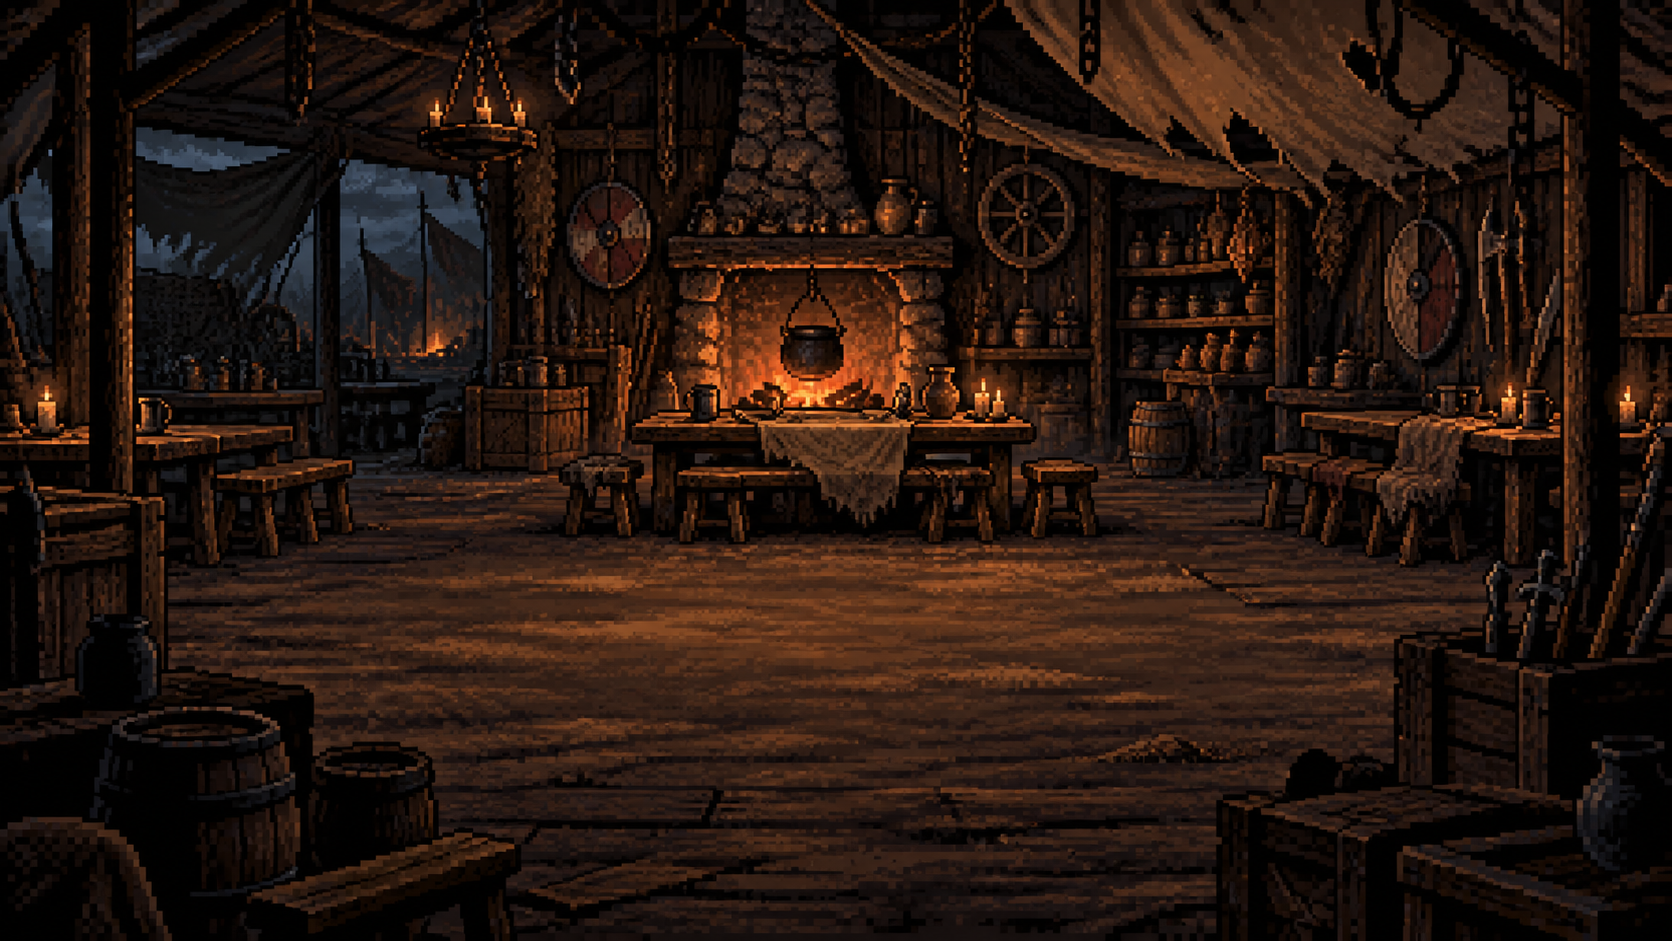
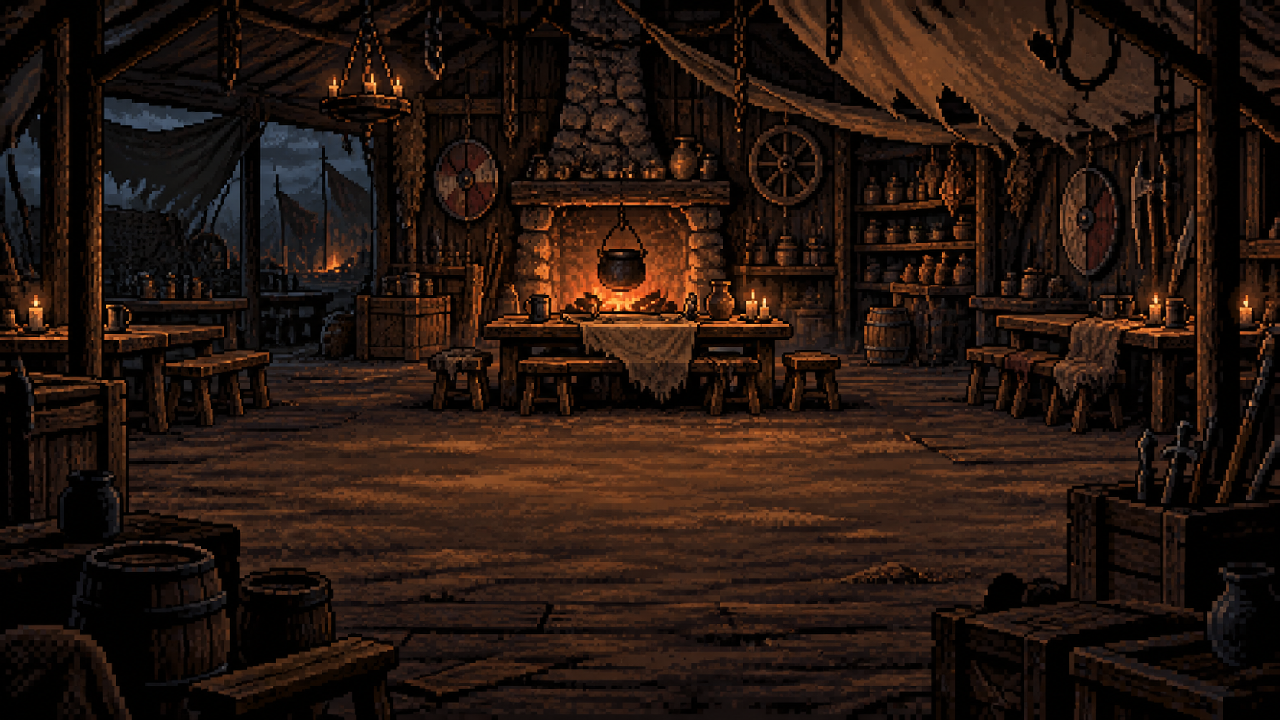
fix: harden sprite delivery

Changed region(s): [[0.375, 0.3972, 0.625, 0.4583], [0.2812, 0.0917, 0.3125, 0.1222], [0.0, 0.4583, 0.0312, 0.4889]]

diff --git a/scripts/extract-sprite-atlases.swift b/scripts/extract-sprite-atlases.swift
@@ -78,6 +78,39 @@ func writePng(_ image: CGImage, to url: URL) throws {
   }
 }
 
+func writeResizedPng(_ image: CGImage, width: Int, height: Int, to url: URL) throws {
+  let pixels = UnsafeMutablePointer<UInt8>.allocate(capacity: width * height * 4)
+  defer { pixels.deallocate() }
+  pixels.initialize(repeating: 0, count: width * height * 4)
+
+  guard let context = CGContext(
+    data: pixels,
+    width: width,
+    height: height,
+    bitsPerComponent: 8,
+    bytesPerRow: width * 4,
+    space: CGColorSpaceCreateDeviceRGB(),
+    bitmapInfo: CGImageAlphaInfo.premultipliedLast.rawValue
+  ) else {
+    throw NSError(domain: "SpriteAtlas", code: 5, userInfo: [NSLocalizedDescriptionKey: "Unable to resize image for \(url.path)"])
+  }
+
+  context.interpolationQuality = .none
+  context.draw(image, in: CGRect(x: 0, y: 0, width: width, height: height))
+  guard let resized = context.makeImage() else {
+    throw NSError(domain: "SpriteAtlas", code: 6, userInfo: [NSLocalizedDescriptionKey: "Unable to encode resized image for \(url.path)"])
+  }
+  try writePng(resized, to: url)
+}
+
+func fittedSize(for image: CGImage, maximumDimension: Int) -> (width: Int, height: Int) {
+  let scale = min(1, Double(maximumDimension) / Double(max(image.width, image.height)))
+  return (
+    width: max(1, Int((Double(image.width) * scale).rounded())),
+    height: max(1, Int((Double(image.height) * scale).rounded()))
+  )
+}
+
 func centeredSquare(around bounds: CGRect, cell: CGRect, side: CGFloat) -> CGRect {
   let centerX = bounds.midX
   let centerY = bounds.midY
@@ -90,7 +123,16 @@ func centeredSquare(around bounds: CGRect, cell: CGRect, side: CGFloat) -> CGRec
 
 let projectRoot = URL(fileURLWithPath: FileManager.default.currentDirectoryPath)
 let sourceRoot = projectRoot.appendingPathComponent("sprite-work/source")
-let outputRoot = projectRoot.appendingPathComponent("public/images/game")
+let publicImagesRoot = projectRoot.appendingPathComponent("public/images")
+let outputRoot = publicImagesRoot.appendingPathComponent(".game-staging-\(UUID().uuidString)")
+let finalOutputRoot = publicImagesRoot.appendingPathComponent("game")
+let backupRoot = publicImagesRoot.appendingPathComponent(".game-backup-\(UUID().uuidString)")
+let fileManager = FileManager.default
+
+defer {
+  try? fileManager.removeItem(at: outputRoot)
+  try? fileManager.removeItem(at: backupRoot)
+}
 
 func copySource(_ sourceName: String, to relativeDestination: String) throws {
   let source = sourceRoot.appendingPathComponent(sourceName)
@@ -106,7 +148,12 @@ try copySource("barbaro-supervivencia-46x70.png", to: "heroes/barbarian.png")
 try copySource("sorceress-supervivencia-46x70.png", to: "heroes/sorceress.png")
 try copySource("paladin-supervivencia-46x70.png", to: "heroes/paladin.png")
 try copySource("necromancer-supervivencia-46x70.png", to: "heroes/necromancer.png")
-try copySource("tavern-supervivencia-background.png", to: "tavern/background.png")
+
+let tavern = try Bitmap(url: sourceRoot.appendingPathComponent("tavern-supervivencia-background.png"))
+guard let tavernImage = tavern.context.makeImage() else {
+  throw NSError(domain: "SpriteAtlas", code: 7, userInfo: [NSLocalizedDescriptionKey: "Unable to render the Tavern background"])
+}
+try writeResizedPng(tavernImage, width: 1280, height: 720, to: outputRoot.appendingPathComponent("tavern/background.png"))
 
 let equipmentNames = ["weapon", "armor", "helmet", "gloves", "boots", "ring", "amulet", "charm"]
 let equipment = try Bitmap(url: sourceRoot.appendingPathComponent("equipment-supervivencia-source-sheet.png"))
@@ -122,11 +169,15 @@ for (index, name) in equipmentNames.enumerated() {
     width: equipmentCellWidth,
     height: equipmentCellHeight
   )
-  guard let bounds = equipment.alphaBounds(in: cell) else { continue }
+  guard let bounds = equipment.alphaBounds(in: cell) else {
+    throw NSError(domain: "SpriteAtlas", code: 8, userInfo: [NSLocalizedDescriptionKey: "No visible pixels found for item \(name)"])
+  }
   let side = min(416, floor(min(cell.width, cell.height)))
   let crop = centeredSquare(around: bounds, cell: cell, side: side)
-  guard let image = equipment.image(in: crop) else { continue }
-  try writePng(image, to: outputRoot.appendingPathComponent("items/\(name).png"))
+  guard let image = equipment.image(in: crop) else {
+    throw NSError(domain: "SpriteAtlas", code: 9, userInfo: [NSLocalizedDescriptionKey: "Unable to crop item \(name)"])
+  }
+  try writeResizedPng(image, width: 96, height: 96, to: outputRoot.appendingPathComponent("items/\(name).png"))
 }
 
 let buildingNames = ["wagons", "scout-table", "stash-wagon", "infirmary", "appraiser"]
@@ -144,7 +195,9 @@ let buildingRanges: [(start: CGFloat, end: CGFloat)] = [
 for (index, name) in buildingNames.enumerated() {
   let range = buildingRanges[index]
   let cell = CGRect(x: range.start, y: 0, width: range.end - range.start, height: CGFloat(buildings.height))
-  guard let bounds = buildings.alphaBounds(in: cell) else { continue }
+  guard let bounds = buildings.alphaBounds(in: cell) else {
+    throw NSError(domain: "SpriteAtlas", code: 10, userInfo: [NSLocalizedDescriptionKey: "No visible pixels found for building \(name)"])
+  }
   let padding: CGFloat = 8
   let crop = CGRect(
     x: max(cell.minX, bounds.minX - padding).rounded(.down),
@@ -152,8 +205,41 @@ for (index, name) in buildingNames.enumerated() {
     width: min(cell.maxX, bounds.maxX + padding) - max(cell.minX, bounds.minX - padding),
     height: min(CGFloat(buildings.height), bounds.maxY + padding) - max(0, bounds.minY - padding)
   ).integral
-  guard let image = buildings.image(in: crop) else { continue }
-  try writePng(image, to: outputRoot.appendingPathComponent("caravan/\(name).png"))
+  guard let image = buildings.image(in: crop) else {
+    throw NSError(domain: "SpriteAtlas", code: 11, userInfo: [NSLocalizedDescriptionKey: "Unable to crop building \(name)"])
+  }
+  let size = fittedSize(for: image, maximumDimension: 256)
+  try writeResizedPng(image, width: size.width, height: size.height, to: outputRoot.appendingPathComponent("caravan/\(name).png"))
+}
+
+let expectedFiles = [
+  "heroes/barbarian.png", "heroes/sorceress.png", "heroes/paladin.png", "heroes/necromancer.png",
+  "items/weapon.png", "items/armor.png", "items/helmet.png", "items/gloves.png",
+  "items/boots.png", "items/ring.png", "items/amulet.png", "items/charm.png",
+  "caravan/wagons.png", "caravan/scout-table.png", "caravan/stash-wagon.png",
+  "caravan/infirmary.png", "caravan/appraiser.png", "tavern/background.png"
+]
+
+for relativePath in expectedFiles {
+  let file = outputRoot.appendingPathComponent(relativePath)
+  let attributes = try fileManager.attributesOfItem(atPath: file.path)
+  guard let size = attributes[.size] as? NSNumber, size.intValue > 0 else {
+    throw NSError(domain: "SpriteAtlas", code: 12, userInfo: [NSLocalizedDescriptionKey: "Generated file is empty: \(relativePath)"])
+  }
+}
+
+if fileManager.fileExists(atPath: finalOutputRoot.path) {
+  try fileManager.moveItem(at: finalOutputRoot, to: backupRoot)
+}
+
+do {
+  try fileManager.moveItem(at: outputRoot, to: finalOutputRoot)
+  try? fileManager.removeItem(at: backupRoot)
+} catch {
+  if fileManager.fileExists(atPath: backupRoot.path) && !fileManager.fileExists(atPath: finalOutputRoot.path) {
+    try? fileManager.moveItem(at: backupRoot, to: finalOutputRoot)
+  }
+  throw error
 }
 
 print("Generated 4 heroes, 8 item icons, 5 caravan buildings, and 1 Tavern background in public/images/game")

diff --git a/pages/tavern.vue b/pages/tavern.vue
@@ -194,22 +194,21 @@ function arrivalLabel(timestamp?: string): string {
 .tavern-page {
   display: grid;
   gap: 1.25rem;
-  isolation: isolate;
   max-width: min(100%, 1680px);
-  position: relative;
 }
-.tavern-page::before {
+.tavern-heading {
+  align-items: end;
   background:
-    linear-gradient(180deg, rgba(17, 16, 14, 0.3), rgba(17, 16, 14, 0.82)),
-    url('/images/game/tavern/background.png') center top / cover no-repeat;
-  content: '';
-  inset: 0;
-  opacity: 0.36;
-  pointer-events: none;
-  position: absolute;
-  z-index: -1;
+    linear-gradient(90deg, rgba(17, 16, 14, 0.93) 0%, rgba(17, 16, 14, 0.72) 58%, rgba(17, 16, 14, 0.84) 100%),
+    url('/images/game/tavern/background.png') center 48% / cover no-repeat;
+  border: 1px solid var(--line);
+  border-radius: 12px;
+  display: flex;
+  gap: 1.5rem;
+  justify-content: space-between;
+  min-height: 15rem;
+  padding: 1.5rem;
 }
-.tavern-heading { align-items: end; display: flex; gap: 1.5rem; justify-content: space-between; }
 .tavern-heading h1 { font-size: 2rem; letter-spacing: -0.025em; margin: 0.15rem 0 0.35rem; text-wrap: balance; }
 .tavern-heading p { margin: 0; max-width: 66ch; text-wrap: pretty; }
 .round-mark { color: var(--accent-2); font-size: 0.82rem; font-weight: 750; }
@@ -243,7 +242,17 @@ function arrivalLabel(timestamp?: string): string {
 @media (max-width: 1100px) { .visitor-grid { grid-template-columns: 1fr; } }
 
 @media (max-width: 640px) {
-  .tavern-heading { align-items: stretch; flex-direction: column; }
+  .tavern-heading {
+    align-items: stretch;
+    background-image:
+      linear-gradient(180deg, rgba(17, 16, 14, 0.56) 0%, rgba(17, 16, 14, 0.94) 62%),
+      url('/images/game/tavern/background.png');
+    background-position: 58% center;
+    flex-direction: column;
+    justify-content: end;
+    min-height: 20rem;
+    padding: 1rem;
+  }
   .tavern-summary { justify-content: stretch; }
   .tavern-summary > span { flex: 1 1 auto; }
   .tavern-summary .btn { justify-content: center; width: 100%; }

diff --git a/components/VisitorPost.vue b/components/VisitorPost.vue
@@ -31,7 +31,7 @@
       </div>
       <ul>
         <li v-for="item in visitor.equipmentSummary" :key="item.itemId ?? `${item.type}-${item.name}`">
-          <ItemSprite :item-type="item.type" :alt="`${item.name}, ${item.type}`" />
+          <ItemSprite :item-type="item.type" />
           <span class="equipment-copy">
             <strong>{{ item.name }}</strong>
             <span>{{ capitalize(item.type) }} · {{ item.powerBonus > 0 ? `+${item.powerBonus} power` : 'starting gear' }}</span>
@@ -54,7 +54,6 @@
               <ItemSprite
                 :data-testid="`offer-sprite-${offer.id}`"
                 :item-type="offer.item.type"
-                :alt="itemImageAlt(offer.item)"
               />
               <div>
                 <strong>{{ itemName(offer.item) }}</strong>
@@ -84,7 +83,6 @@
               <ItemSprite
                 :data-testid="`quote-sprite-${entry.item.id}`"
                 :item-type="entry.item.type"
-                :alt="itemImageAlt(entry.item)"
               />
               <div>
                 <strong>{{ itemName(entry.item) }}</strong>
@@ -319,10 +317,6 @@ function itemName(item: Item): string {
 
 function itemMeta(item: Item): string {
   return `${capitalize(item.type)} · level ${item.requiredLevel} · ${capitalize(item.rarity)}`
-}
-
-function itemImageAlt(item: Item): string {
-  return `${itemName(item)}, ${item.rarity} ${item.type}`
 }
 
 function duration(milliseconds: number): string {

diff --git a/tests/game-assets.test.ts b/tests/game-assets.test.ts
@@ -19,7 +19,8 @@ describe('game asset maps', () => {
     const paths = [
       ...Object.values(heroSpriteByClass),
       ...Object.values(itemSpriteByType),
-      ...Object.values(caravanSpriteByUpgrade)
+      ...Object.values(caravanSpriteByUpgrade),
+      '/images/game/tavern/background.png'
     ]
 
     for (const assetPath of paths) {
@@ -30,6 +31,12 @@ describe('game asset maps', () => {
       expect(png.readUInt32BE(16), `${assetPath} width`).toBeGreaterThan(0)
       expect(png.readUInt32BE(20), `${assetPath} height`).toBeGreaterThan(0)
       expect(png[25], `${assetPath} must use RGBA color`).toBe(6)
+
+      const width = png.readUInt32BE(16)
+      const height = png.readUInt32BE(20)
+      if (assetPath.includes('/items/')) expect([width, height]).toEqual([96, 96])
+      if (assetPath.includes('/caravan/')) expect(Math.max(width, height)).toBeLessThanOrEqual(256)
+      if (assetPath.includes('/tavern/')) expect([width, height]).toEqual([1280, 720])
     }
   })
 })

diff --git a/pages/stash.vue b/pages/stash.vue
@@ -22,7 +22,7 @@
     <section v-else-if="game.save?.stash.length" class="grid three" aria-label="Stored items">
       <article v-for="item in game.save.stash" :key="item.id" class="card item stack" :class="item.rarity">
         <div class="item-heading">
-          <ItemSprite :item-type="item.type" :alt="itemImageAlt(item)" />
+          <ItemSprite :item-type="item.type" />
           <div class="stack item-heading-copy">
             <div class="row">
               <h2>{{ itemName(item) }}</h2>
@@ -103,10 +103,6 @@ function isInQueue(itemId: string) {
 
 function itemName(item: Item): string {
   return item.identified ? item.displayName : `Unidentified ${capitalize(item.rarity)} ${item.baseName}`
-}
-
-function itemImageAlt(item: Item): string {
-  return `${itemName(item)}, ${item.rarity} ${item.type}`
 }
 
 function identifyDisabledReason(item: Item): string {

diff --git a/tests/game-assets.component.test.ts b/tests/game-assets.component.test.ts
@@ -26,13 +26,11 @@ describe('game asset components', () => {
     }
   })
 
-  it('renders item types without encoding rarity in the asset', () => {
-    const image = mount(ItemSprite, {
-      props: { itemType: 'weapon', alt: 'Short Sword, normal weapon' }
-    }).get('img')
+  it('keeps generic item art decorative and rarity outside the asset', () => {
+    const image = mount(ItemSprite, { props: { itemType: 'weapon' } }).get('img')
 
     expect(image.attributes('src')).toBe('/images/game/items/weapon.png')
-    expect(image.attributes('alt')).toBe('Short Sword, normal weapon')
+    expect(image.attributes('alt')).toBe('')
     expect(image.attributes('src')).not.toMatch(/normal|magic|rare|unique/)
   })
 

diff --git a/tests/visitor-post.component.test.ts b/tests/visitor-post.component.test.ts
@@ -61,7 +61,7 @@ describe('VisitorPost', () => {
     expect(wrapper.get('[data-testid="buy-offer-1"]').text()).toContain('Buy for 40g')
     expect(wrapper.get('[data-testid="sell-sword"]').text()).toContain('Sell for 31g')
     expect(wrapper.get('[data-testid="offer-sprite-offer-1"]').attributes('src')).toBe('/images/game/items/weapon.png')
-    expect(wrapper.get('[data-testid="quote-sprite-sword"]').attributes('alt')).toBe('Short Sword, normal weapon')
+    expect(wrapper.get('[data-testid="quote-sprite-sword"]').attributes('alt')).toBe('')
   })
 
   it('renders persisted tavern equipment impact after a reload', () => {

diff --git a/tests/game-assets.pages.test.ts b/tests/game-assets.pages.test.ts
@@ -35,7 +35,7 @@ describe('game assets in active pages', () => {
 
     const item = save.stash[0]!
     const image = wrapper.get(`img[src="/images/game/items/${item.type}.png"]`)
-    expect(image.attributes('alt')).toContain(item.displayName)
+    expect(image.attributes('alt')).toBe('')
     expect(wrapper.text()).toContain(item.rarity)
     expect(wrapper.find('summary').exists()).toBe(true)
   })

diff --git a/components/CaravanUpgradeSprite.vue b/components/CaravanUpgradeSprite.vue
@@ -3,6 +3,8 @@
     class="pixel-sprite caravan-upgrade-sprite"
     :src="caravanSpriteByUpgrade[upgradeId]"
     :alt="alt"
+    width="320"
+    height="240"
     loading="lazy"
     decoding="async"
   >
